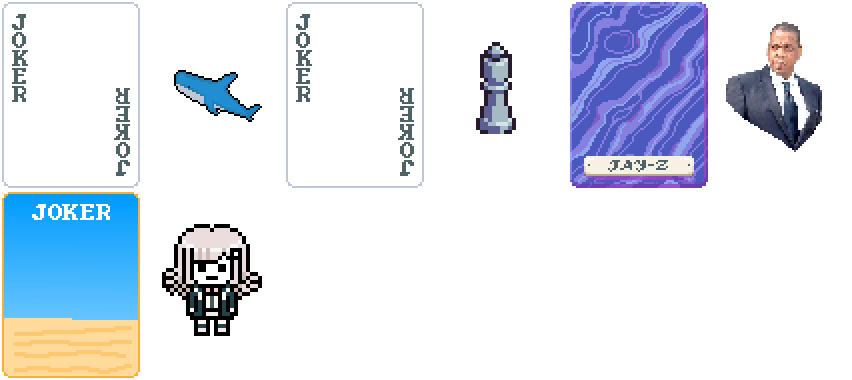
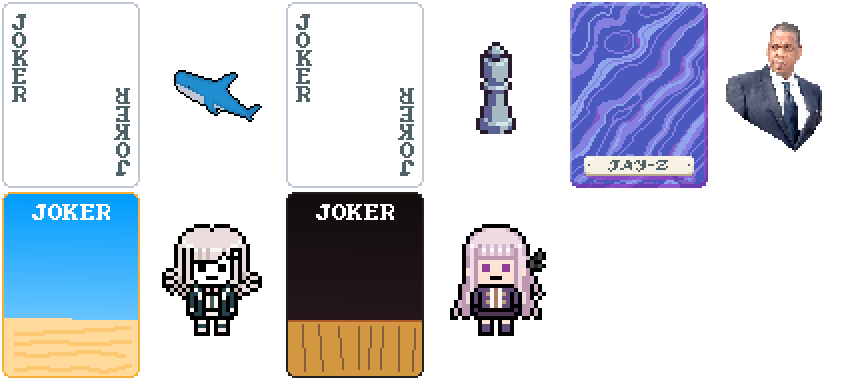
feat(jokers): ultimate ???

Changed region(s): [[0.3357, 0.4921, 0.6408, 1.0]]

diff --git a/site/src/jokers.ts b/site/src/jokers.ts
@@ -252,5 +252,17 @@ const jokers = [
     badge: "common",
     image: "j_slightly_cooler_joker",
   },
+  {
+    name: "Ultimate ???",
+    text: [
+      "{C:mult}+5{} Mult for each unique enhancement",
+      "{X:mult,C:white}X0.2{} Mult for each unique edition",
+      "{C:chips}+25{} Chips for each unique seal",
+      "In your Full Deck",
+    ],
+    badge: "common",
+    image: "j_s_ultimate_unknown",
+    soul: true,
+  },
 ];
 export { jokers };
